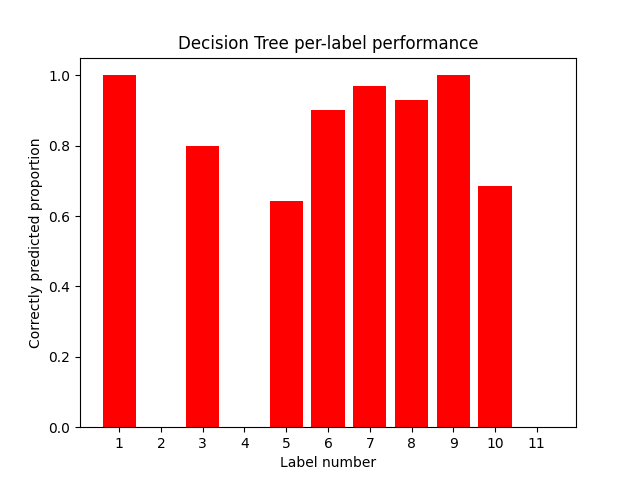
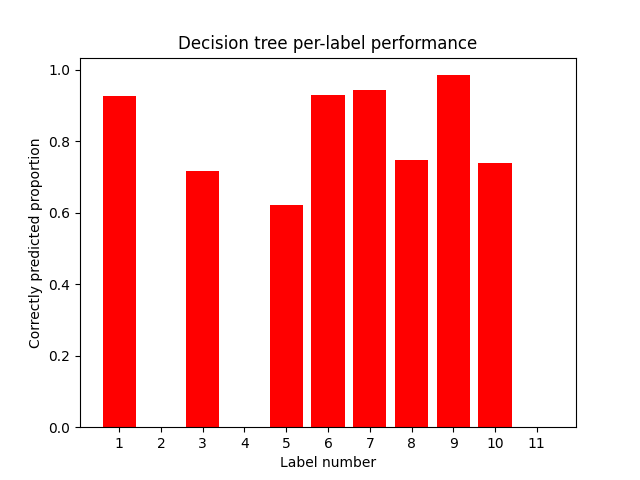
Changed all the label graphs to use cross-validation

diff --git a/helper.py b/helper.py
@@ -4,6 +4,7 @@ from sklearn.preprocessing import MultiLabelBinarizer, MinMaxScaler, StandardSca
 import pandas as pd
 from scipy import sparse
 import matplotlib.pyplot as plt
+from statistics import mean
 
 mlb = MultiLabelBinarizer()
 labels = list(range(1, 12))
@@ -182,10 +183,40 @@ def plot_label_accuracy(model_name: str, truth: np.ndarray, predictions: np.ndar
     plt.title(model_name + " per-label performance")
     plt.show()
 
+def plot_label_accuracy_cv(model, X, Y, model_name: str):
+    """
+    Like the function above, but includes cross-validation
+    :param model: An sklearn-like model
+    :param X: The input features
+    :param Y: The labels
+    :return: Plots a graph
+    """
+    list_of_cv_predictions = cross_validate(k=5, X=X, Y=Y, model=model)
+    list_of_results = []
+    for dictionary in list_of_cv_predictions:
+        results = {}
+        for i in range(1, 12):
+            results[str(i)] = label_accuracy(y_true=inverse_transform(dictionary['Truth']),
+                                         y_predicted=inverse_transform(dictionary['Predictions']), label=i)
+        list_of_results.append(results)
+
+    print(list_of_results)
+    final_results = {}
+    for i in range(1, 12):
+        final_results[str(i)] = mean([d[str(i)] for d in list_of_results])
+    print(final_results)
+    values = list(final_results.values())
+    names = list(final_results.keys())
+    plt.bar(names, values, color='red')
+    plt.xlabel("Label number")
+    plt.ylabel("Correctly predicted proportion")
+    plt.title(model_name + " per-label performance")
+    plt.show()
+
 def cross_validate(k: int, X: np.ndarray, Y: np.ndarray, model) -> list:
     """
     This function is almost but not exactly identical to KFold from sklearn.
-    It is intended for use by plot_label_accuracy()
+    It is intended for use by plot_label_accuracy_cv()
     :param k: The k in k-fold.
     :param X: The numpy array representing the input features
     :param Y: The numpy array representing the correct output, as a binary mask
@@ -207,12 +238,13 @@ def cross_validate(k: int, X: np.ndarray, Y: np.ndarray, model) -> list:
     for i in range(split_number, X.shape[0]+split_number, split_number):
         X_test = X[start:i]
         X_train = np.concatenate((X[i:length], X[0:start]))
-        print("Length of first part: ", X[i:length].shape[0], "Length of second part ", X[0:start].shape[0])
-        print("Length of X train: ", X_train.shape[0])
-        print("Length of X test: ", X_test.shape[0])
+        # print("Length of first part: ", X[i:length].shape[0], "Length of second part ", X[0:start].shape[0])
+        # print("Length of X train: ", X_train.shape[0])
+        # print("Length of X test: ", X_test.shape[0])
         Y_test = Y[start:i]
         Y_train = np.concatenate((Y[i:length], Y[0:start]))
         start += split_number
         model.fit(X_train, Y_train)
         predictions.append({"Predictions": model.predict(X_test), "Truth": Y_test})
+    assert len(predictions) == k
     return predictions

diff --git a/decision_tree.py b/decision_tree.py
@@ -5,7 +5,7 @@ from sklearn import tree
 from sklearn.metrics import hamming_loss, make_scorer, accuracy_score
 from sklearn.model_selection import train_test_split, KFold, cross_val_score
 from skmultilearn.problem_transform import BinaryRelevance
-from helper import partial_accuracy_callable, plot_label_accuracy, count_mismatch_proportion
+from helper import partial_accuracy_callable, plot_label_accuracy_cv, count_mismatch_proportion
 from helper import get_data, partial_accuracy, label_accuracy, inverse_transform, cross_validate
 
 X, Y = get_data("training_set.csv")
@@ -44,8 +44,6 @@ tree_classifier = BinaryRelevance(
         classifier = tree.DecisionTreeClassifier(criterion="gini", ccp_alpha=0.03),
         require_dense = [True, True])
 kfold = KFold(n_splits=5, random_state=101, shuffle=True)
-tree_classifier.fit(x_train, y_train)
-print(type(tree_classifier.predict(x_test)))
 scores = cross_val_score(tree_classifier, X, Y,
                          scoring=make_scorer(partial_accuracy_callable, greater_is_better=True),
                          cv=kfold, n_jobs=-1)
@@ -56,11 +54,10 @@ scores_strict = cross_val_score(tree_classifier, X, Y,
                          cv=kfold, n_jobs=-1)
 print("The mean strict accuracy of the decision tree is ", mean(scores_strict),
       "The stdev of the strict accuracy is ", stdev(scores_strict))
+# Per label performance, now with cross-validation!
+plot_label_accuracy_cv(model_name="Decision tree", model=tree_classifier, Y=Y, X=X)
 tree_classifier.fit(x_train, y_train)
 predictions_tree = tree_classifier.predict(x_test)
 
 print("The proportion of length mismatches is ",
       count_mismatch_proportion(inverse_transform(predictions_tree), inverse_transform(y_test)))
-
-# Per label performance
-plot_label_accuracy(model_name="Decision tree", truth=y_test, predictions=predictions_tree)

diff --git a/sgd_neural_network.py b/sgd_neural_network.py
@@ -1,6 +1,6 @@
 from sklearn.neural_network import MLPClassifier
 from helper import get_data, partial_accuracy, inverse_transform, \
-    partial_accuracy_callable, standardise_data, plot_label_accuracy, \
+    partial_accuracy_callable, standardise_data, plot_label_accuracy_cv, \
     count_mismatch_proportion, cross_validate
 from sklearn.model_selection import train_test_split, KFold, cross_val_score
 import json
@@ -66,7 +66,7 @@ scores_strict_accuracy = cross_val_score(neural_network, X, Y,
                          cv=cv, n_jobs=-1)
 
 print("The mean strict accuracy is ", mean(scores_strict_accuracy), "Stdev is ", stdev(scores_strict_accuracy))
-
+plot_label_accuracy_cv(model_name="SGD Neural Network", model=neural_network, X=X, Y=Y)
 neural_network.fit(x_train, y_train)
 predictions = neural_network.predict(x_test)
 print("The proportion of length mismatches is ", count_mismatch_proportion(inverse_transform(predictions), inverse_transform(y_test)))
@@ -77,7 +77,6 @@ for labels in inverse_transform(y_test):
     if 11 in set(labels):
         count += 1
 print("label 11 comes up ", count, " times")
-plot_label_accuracy(model_name="SGD Neural Network", truth=y_test, predictions=neural_network.predict(x_test))
 predictions_cross_val = cross_validate(k=5, X=X, Y=Y, model=MLPClassifier(solver='sgd', activation='relu', learning_rate_init=params['learning_rate_init'],
                                hidden_layer_sizes=tuple(params['hidden_layer_sizes']),
                                power_t=params['power_t'],

diff --git a/knn.py b/knn.py
@@ -2,7 +2,8 @@ from skmultilearn.adapt import MLkNN, BRkNNaClassifier
 from sklearn.model_selection import GridSearchCV, train_test_split, KFold, cross_val_score
 from sklearn.metrics import hamming_loss, make_scorer, accuracy_score
 from helper import partial_accuracy, partial_accuracy_callable, \
-    count_mismatch_proportion, label_accuracy, get_data, inverse_transform, normalise_data, plot_label_accuracy
+    count_mismatch_proportion, label_accuracy, get_data, inverse_transform, normalise_data, \
+    plot_label_accuracy, plot_label_accuracy_cv
 import numpy as np
 from statistics import mean, stdev
 import matplotlib.pyplot as plt
@@ -45,7 +46,7 @@ model.fit(x_train, y_train)
 predictions = model.predict(x_test)
 print("The proportion of length mismatches is ",
       count_mismatch_proportion(inverse_transform(predictions), inverse_transform(y_test)))
-plot_label_accuracy(model_name="MLkNN", truth=y_test, predictions=model.predict(x_test))
+plot_label_accuracy_cv(model_name="MLkNN", model=MLkNN(k=19, s=0.5), Y=Y, X=X)
 
 # Comparison with binary relevance knn
 # Mlknn incorporates MAP
